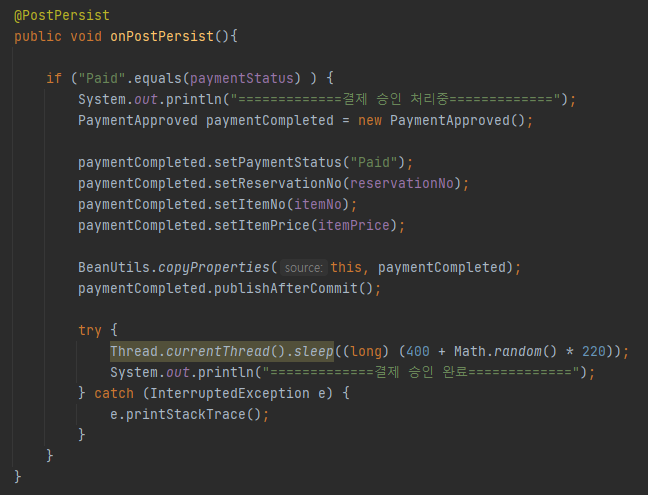
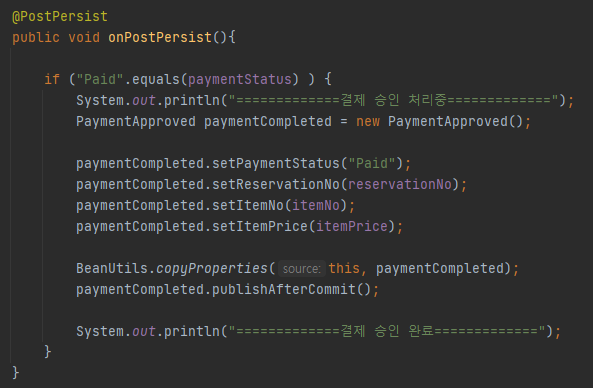
README.md '구현'부분 작성 완료

diff --git a/README.md b/README.md
@@ -268,12 +268,7 @@ public interface PaymentService {
             BeanUtils.copyProperties(this, paymentCompleted);
             paymentCompleted.publishAfterCommit();
 
-            try {
-                Thread.currentThread().sleep((long) (400 + Math.random() * 220));
-                System.out.println("=============결제 승인 완료=============");
-            } catch (InterruptedException e) {
-                e.printStackTrace();
-            }
+			System.out.println("=============결제 승인 완료=============");
         }
     }
 	
@@ -283,6 +278,12 @@ public interface PaymentService {
 
 - 동기식 호출이 적용되서 reservation 시스템과 payment 시스템이 일관성을 갖게 됨 
 ```
+# items 등록
+http POST localhost:8081/items/ itemName=Camera itemPrice=100 itemStatus=Rentable rentalStatus=NotRenting
+	
+# 예약 하기
+http POST localhost:8082/reservations customerName=YoungEunSong customerId=1 itemNo=1 itemName=Camera itemPrice=100 paymentStatus=NotPaid rentalStatus=NotRenting
+
 # reservation 서비스에서 결제 요청
 http PATCH localhost:8082/reservations/1 paymentStatus=Paid
 ```
@@ -306,39 +307,38 @@ http PATCH localhost:8082/reservations/2 paymentStatus=Paid
 ## 비동기식 호출 / 시간적 디커플링 / 장애격리
 
 
-결제(pay)가 이루어진 후에 대리점(store)으로 이를 알려주는 행위는 비 동기식으로 처리하여 대리점(store)의 처리를 위하여 결제주문이 블로킹 되지 않아도록 처리한다.
+'예약됨(Reserved)', '예약취소됨(ReservationCancelled)', '대여됨(RentedItem)', '반납됨(ReturnedItem' 이벤트는 비동기식으로 각각 처리한다. 아래 예시는 그 중 '예약됨(Reserved)' 이벤트에 관한 내용이다.
 
-- 결제승인이 되었다(payCompleted)는 도메인 이벤트를 카프카로 송출한다(Publish)
+- '예약됨(Reserved)' 이벤트를 카프카로 송출한다(Publish)
 
-![image](https://user-images.githubusercontent.com/73699193/98075277-6f478400-1eaf-11eb-88c8-2b4a7736e56b.png)
+![image](./img/예약됨.PNG)
+
+- 물건관리자는 '예약됨(Reserved)' 이벤트를 수신하여 자신의 정책을 처리하도록 PolicyHandler 를 구현한다.
+- 물건관리자는 이벤트로부터 수신받은 '물건상태' 정보를 item의 ItemStatus에 저장한다.
+- 물건은 특정 인물에게 예약되었으므로, 더이상 다른 사람들에게는 대여불가능(NotRentable)하다는 정보를 갖게 된다. 
+
+![image](./img/대여불가능.PNG)
 
 
-- 대리점(store)에서는 결제승인(payCompleted) 이벤트에 대해서 이를 수신하여 자신의 정책을 처리하도록 PolicyHandler 를 구현한다.
-- 주문접수(OrderReceive)는 송출된 결제승인(payCompleted) 정보를 store의 Repository에 저장한다.:
-
-![image](https://user-images.githubusercontent.com/73699193/98076059-e0d40200-1eb0-11eb-94ad-c4ea114cb3aa.png)
-
-
-대리점(store)시스템은 주문(app)/결제(pay)와 완전히 분리되어있으며(sync transaction 없음), 이벤트 수신에 따라 처리되기 때문에, 대리점(store)이 유지보수로 인해 잠시 내려간 상태라도 주문을 받는데 문제가 없다.(시간적 디커플링):
+reservation 서비스는 item 서비스와 완전히 분리되어있으며(sync transaction 없음) 이벤트 수신에 따라 처리되기 때문에, item 서비스가 유지보수로 인해 잠시 내려간 상태라도 예약을 진행해도 문제 없다.(시간적 디커플링):
 ```
-# 대리점(store) 서비스를 잠시 내려놓음 (ctrl+c)
-
-#주문하기(order)
-http http://localhost:8081/orders item=note30 qty=2  #Success
-
-#주문상태 확인
-http get http://localhost:8081/orders    # 상태값이 'Shipped'이 아닌 'Payed'에서 멈춤을 확인
+# items 등록
+http POST localhost:8081/items/ itemName=Camera itemPrice=100 itemStatus=Rentable rentalStatus=NotRenting
+	
+# item 서비스를 내려놓은 후 reservation 서비스에서 예약 하기
+http POST localhost:8082/reservations customerName=YoungEunSong customerId=1 itemNo=1 itemName=Camera itemPrice=100 paymentStatus=NotPaid rentalStatus=NotRenting
 ```
-![image](https://user-images.githubusercontent.com/73699193/98078301-2b577d80-1eb5-11eb-9d89-7c03a3fa27dd.png)
+![image](./img/예약하기.PNG)
 ```
-#대리점(store) 서비스 기동
-cd store
+# item 서비스 기동
+cd item
 mvn spring-boot:run
 
-#주문상태 확인
-http get http://localhost:8081/orders     # 'Payed' 였던 상태값이 'Shipped'로 변경된 것을 확인
+# 예약한 item 의 itemStatus가 NotRentable로 바뀌었는지 확인 (pub/sub)
+http localhost:8081/items/1 
 ```
-![image](https://user-images.githubusercontent.com/73699193/98078837-2cd57580-1eb6-11eb-8850-a8c621410d61.png)
+![image](./img/예약완료.PNG)
+
 
 # 운영
 
